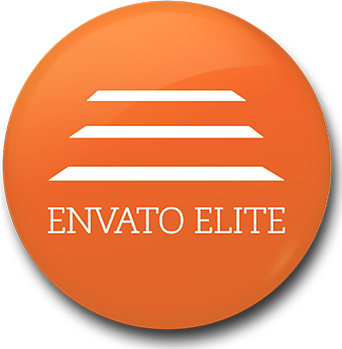
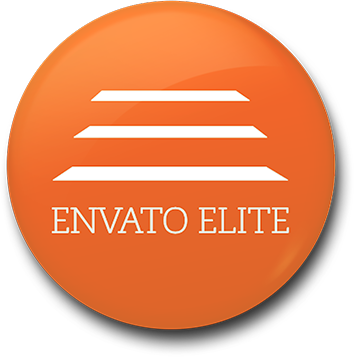
minor fixes

diff --git a/index.html b/index.html
@@ -11,11 +11,11 @@
 <body>
     
     <header>
-        <div class="navigation">
+        <div  class="navigation">
             <div class="container">
-                <div class="navigation__elements">
-                    <div class="navigation__element">
-                        <a href="#" class="navigation__logo" id="envato"><img src="/img/logo__img.png" alt="Envato"></a>
+                <div  class="navigation__elements">
+                    <div id="envato" class="navigation__element">
+                        <a href="#" class="navigation__logo" ><img src="/img/logo__img.png" alt="Envato"></a>
                     </div>
                     <div class="navigation__element">
                         <li class="navigation__links">
@@ -60,7 +60,7 @@
                                     <input type="text" name="email" placeholder="Enter your email" class="input signup__input"> <br>
                                     <input type="number" name="phone" placeholder="Phone number" class="input signup__input"><br>
                                     <input type="text" name="username" placeholder="Envato Username" class="input signup__input"><br>
-                                    <button class="signup__button button_form">Let me in!</button><br>
+                                    <button type="button" class="signup__button button_form">Let me in!</button><br>
                                     <p class="signup__ad">Hurry up, Limited seats available <br>*we will never spam your email</p>
                                 </form>
                             </div>
@@ -102,22 +102,22 @@
                 <div class="table__item">
                     <span class="table__time">10am - 12pm</span>
                     <span class="table__event">Indivoduction and presentations about Envato</span>
-                    <button class="table__add"><i class="fas fa-plus-circle"></i></button>
+                    <button type="button" class="table__add"><i class="fas fa-plus-circle"></i></button>
                 </div>
                 <div class="table__item">
                     <span class="table__time">12pm - 02pm</span>
                     <span class="table__event">Sessions by honorable guests and Speakers</span>
-                    <button class="table__add"><i class="fas fa-plus-circle"></i></button>
+                    <button type="button" class="table__add"><i class="fas fa-plus-circle"></i></button>
                 </div>
                 <div class="table__item">
                     <span class="table__time">02pm - 03pm</span>
                     <span class="table__event">Break and Mingle time with the authors</span>
-                    <button class="table__add"><i class="fas fa-plus-circle"></i></button>
+                    <button type="button" class="table__add"><i class="fas fa-plus-circle"></i></button>
                 </div>
                 <div class="table__item">
                     <span class="table__time">03pm - 05pm</span>
                     <span class="table__event">Portfolio Review, Rewards and Ending Presentation</span>
-                    <button class="table__add"><i class="fas fa-plus-circle 4x"></i></button>
+                    <button type="button" class="table__add"><i class="fas fa-plus-circle 4x"></i></button>
                 </div>
             </div>   
             <div class="day-activities__info">
@@ -315,7 +315,7 @@
                         <form>
                             <input class="input contacts__input" type="text" placeholder="Type your email">
                             <textarea type="text" placeholder="Type your message" class="contacts__textArea"></textarea>
-                            <button class="contacts__button_form button_form">Send Message</button>
+                            <button type="button" class="contacts__button_form button_form">Send Message</button>
                         </form>
                     </div>
                 </div>
@@ -335,9 +335,7 @@
                 <p class="social__text-p">All Rights Reserved. Envato Bangladesh &copy; 2015</p>
                 </div>
                 <div class="social__link-top-main">
-                    <div class="social__link-top">
-                        <a href="#envato"></a>
-                    </div>
+                    <a class="social__link-top" href="#envato"></a>
                 </div>     
             </div>
         </div>

diff --git a/css/main.css b/css/main.css
@@ -32,6 +32,14 @@ button {
   cursor: pointer;
 }
 
+button:active {
+  transform: translate(0px, 3px);
+  -webkit-transform: translate(0px, 3px);
+  -webkit-transition: all 0.1s ease-in-out;
+  transition: all 0.1s ease-in-out;
+  -webkit-transition: all 0.1 ease-in-out;
+}
+
 .button_simple {
   width: 200px;
   height: 55px;
@@ -49,6 +57,15 @@ button {
   font-size: 20px;
   font-weight: bold;
   outline: none;
+}
+
+input[type='number'] {
+  -moz-appearance: textfield;
+}
+
+input::-webkit-outer-spin-button,
+input::-webkit-inner-spin-button {
+  -webkit-appearance: none;
 }
 
 .input {
@@ -507,8 +524,8 @@ button {
 }
 
 .elite__logo-img {
-  width: 342px;
-  height: 350px;
+  width: 355px;
+  height: 355px;
   background-image: url("../img/elite__img.png");
   background-repeat: no-repeat;
   position: absolute;
@@ -638,24 +655,34 @@ button {
 }
 
 .card__link {
-  width: 35px;
-  height: 35px;
+  width: 32px;
+  height: 32px;
   background-image: url("../img/button__speakers_sprite.png");
   background-repeat: no-repeat;
   padding: 0;
   margin-right: 10px;
+  border-radius: 50px;
+}
+
+.card__link:hover, .card__link:active {
+  -webkit-box-shadow: 0px 0px 33px -2px rgba(0, 0, 0, 0.75);
+  box-shadow: 0px 0px 33px -2px rgba(0, 0, 0, 0.75);
+}
+
+.card__fb {
+  background-position: 1px 0;
 }
 
 .card__tw {
-  background-position: -35px 0;
+  background-position: -37px 0;
 }
 
 .card__be {
-  background-position: -75px 0;
+  background-position: -78px 0;
 }
 
 .card__sm {
-  background-position: -115px 0;
+  background-position: -116px 0;
 }
 
 .sponsors {
@@ -798,6 +825,7 @@ button {
 
 .contacts {
   background-image: url("../img/bg__map.jpg");
+  background-size: cover;
 }
 
 .contacts__main {
@@ -941,27 +969,37 @@ button {
 
 .social__link {
   background-image: url("../img/button_social_sprite.png");
-  height: 50px;
-  width: 50px;
+  height: 46px;
+  width: 46px;
   background-repeat: no-repeat;
   padding: 0;
   margin-right: 10px;
+  border-radius: 50px;
+}
+
+.social__link:hover, .social__link:active {
+  -webkit-box-shadow: 0px 0px 33px -2px rgba(0, 0, 0, 0.75);
+  box-shadow: 0px 0px 33px -2px rgba(0, 0, 0, 0.75);
+}
+
+.social__fb {
+  background-position: -3px 0;
 }
 
 .social__tw {
-  background-position: -61px 0;
+  background-position: -64px 0;
 }
 
 .social__li {
-  background-position: -121px 0;
+  background-position: -124px 0;
 }
 
 .social__gp {
-  background-position: -181px 0;
+  background-position: -184px 0;
 }
 
 .social__tu {
-  background-position: -240px 0;
+  background-position: -244px 0;
 }
 
 .social__link-top {

diff --git a/css/sass/_footer.scss b/css/sass/_footer.scss
@@ -8,6 +8,7 @@
 
 .contacts {
     background-image: url('../img/bg__map.jpg');
+    background-size: cover;
 }
 
 .contacts__main {
@@ -117,26 +118,38 @@
 
 .social__link {
     background-image: url('../img/button_social_sprite.png');
-    height: 50px;
-    width: 50px;
+    height: 46px;
+    width: 46px;
     background-repeat: no-repeat;
     padding: 0;
     margin-right: 10px;
+    border-radius: 50px;
+
+    &:hover, &:active { 
+        -webkit-box-shadow: 0px 0px 33px -2px rgba(0,0,0,0.75);
+        -moz-box-shadow: 0px 0px 33px -2px rgba(0,0,0,0.75);
+        box-shadow: 0px 0px 33px -2px rgba(0,0,0,0.75);
+    }
+
 }
 
 .social {
 
+    &__fb {
+        background-position: -3px 0;  
+    }
+
     &__tw{
-        background-position: -61px 0;  
+        background-position: -64px 0;  
     }
     &__li{
-        background-position: -121px 0; 
+        background-position: -124px 0; 
     }
     &__gp{
-        background-position: -181px 0
+        background-position: -184px 0
     }
     &__tu{
-        background-position: -240px 0
+        background-position: -244px 0
     }
 
     &__link-top {

diff --git a/css/sass/_speakers.scss b/css/sass/_speakers.scss
@@ -82,23 +82,34 @@
     }
 
     &__link {
-        width: 35px;
-        height: 35px;
+        width: 32px;
+        height: 32px;
         background-image: url('../img/button__speakers_sprite.png');
         background-repeat: no-repeat;
         padding: 0;
         margin-right: 10px;  
+        border-radius: 50px;
+
+        &:hover, &:active { 
+            -webkit-box-shadow: 0px 0px 33px -2px rgba(0,0,0,0.75);
+            -moz-box-shadow: 0px 0px 33px -2px rgba(0,0,0,0.75);
+            box-shadow: 0px 0px 33px -2px rgba(0,0,0,0.75);
+        }
+    }
+
+    &__fb {
+        background-position: 1px 0;
     }
 
     &__tw {
-        background-position: -35px 0;
+        background-position: -37px 0;
     }
 
     &__be {
-        background-position: -75px 0;
+        background-position: -78px 0;
     }
 
     &__sm {
-        background-position: -115px 0;
+        background-position: -116px 0;
     }
 }

diff --git a/css/helpers/_setup.scss b/css/helpers/_setup.scss
@@ -30,6 +30,13 @@ h3 {
 
 button {
     cursor: pointer;
+
+    &:active {
+        transform: translate(0px,3px);
+        -webkit-transform: translate(0px,3px);
+        transition: all 0.1s ease-in-out;
+	    -webkit-transition: all 0.1 ease-in-out;
+    }
 }
 
 .button_simple {
@@ -49,6 +56,15 @@ button {
     font-size: 20px;
     font-weight: bold;
     outline: none;
+}
+
+input[type='number'] {
+    -moz-appearance:textfield;
+}
+
+input::-webkit-outer-spin-button,
+input::-webkit-inner-spin-button {
+    -webkit-appearance: none;
 }
 
 .input {

diff --git a/css/sass/_day-activities&elite.scss b/css/sass/_day-activities&elite.scss
@@ -187,8 +187,8 @@
 }
 
 .elite__logo-img {
-    width: 342px;
-    height: 350px;
+    width: 355px;
+    height: 355px;
     background-image: url('../img/elite__img.png');
     background-repeat: no-repeat;
     position: absolute;
